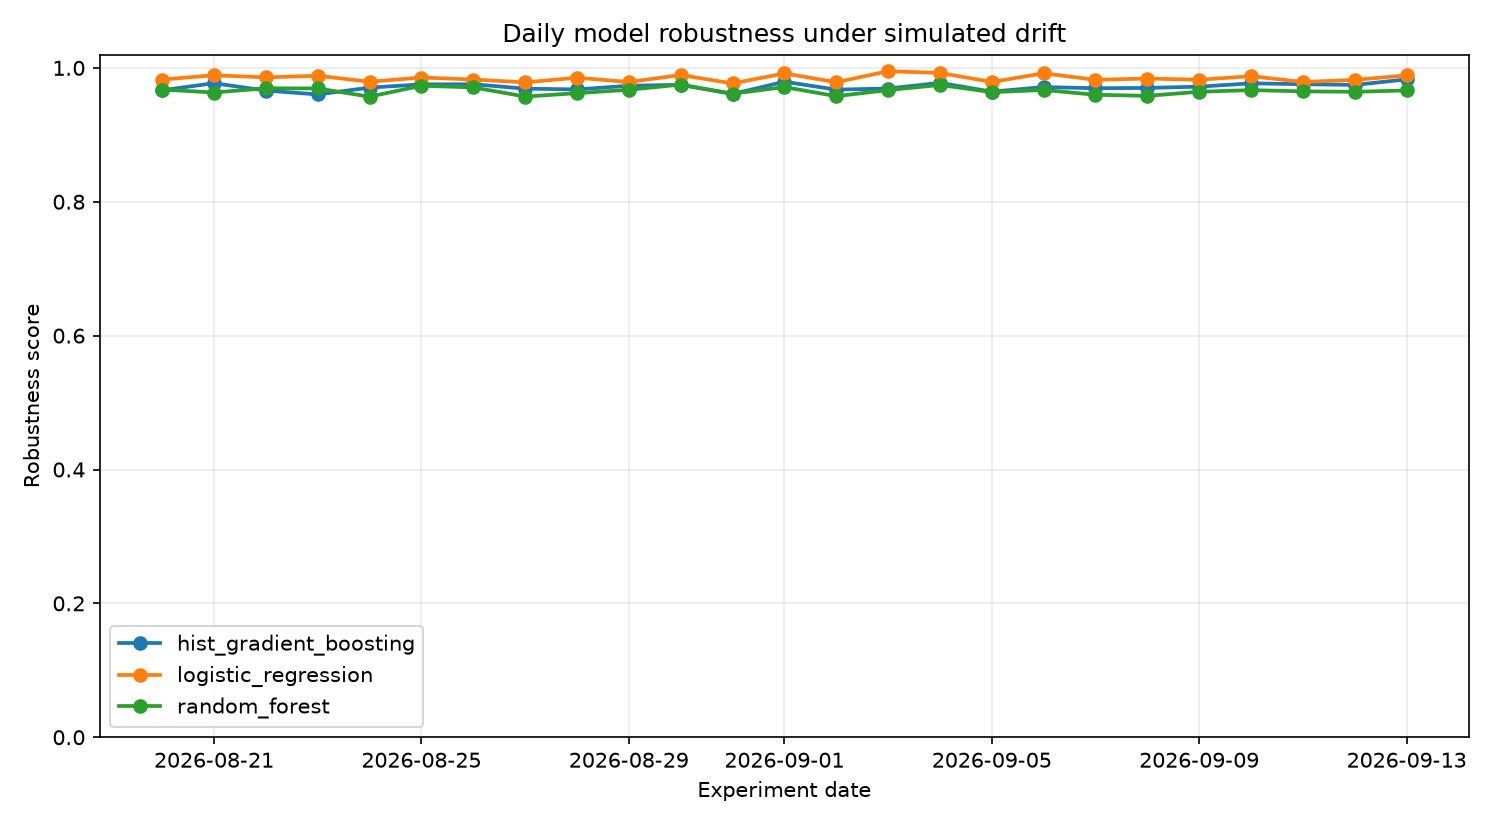
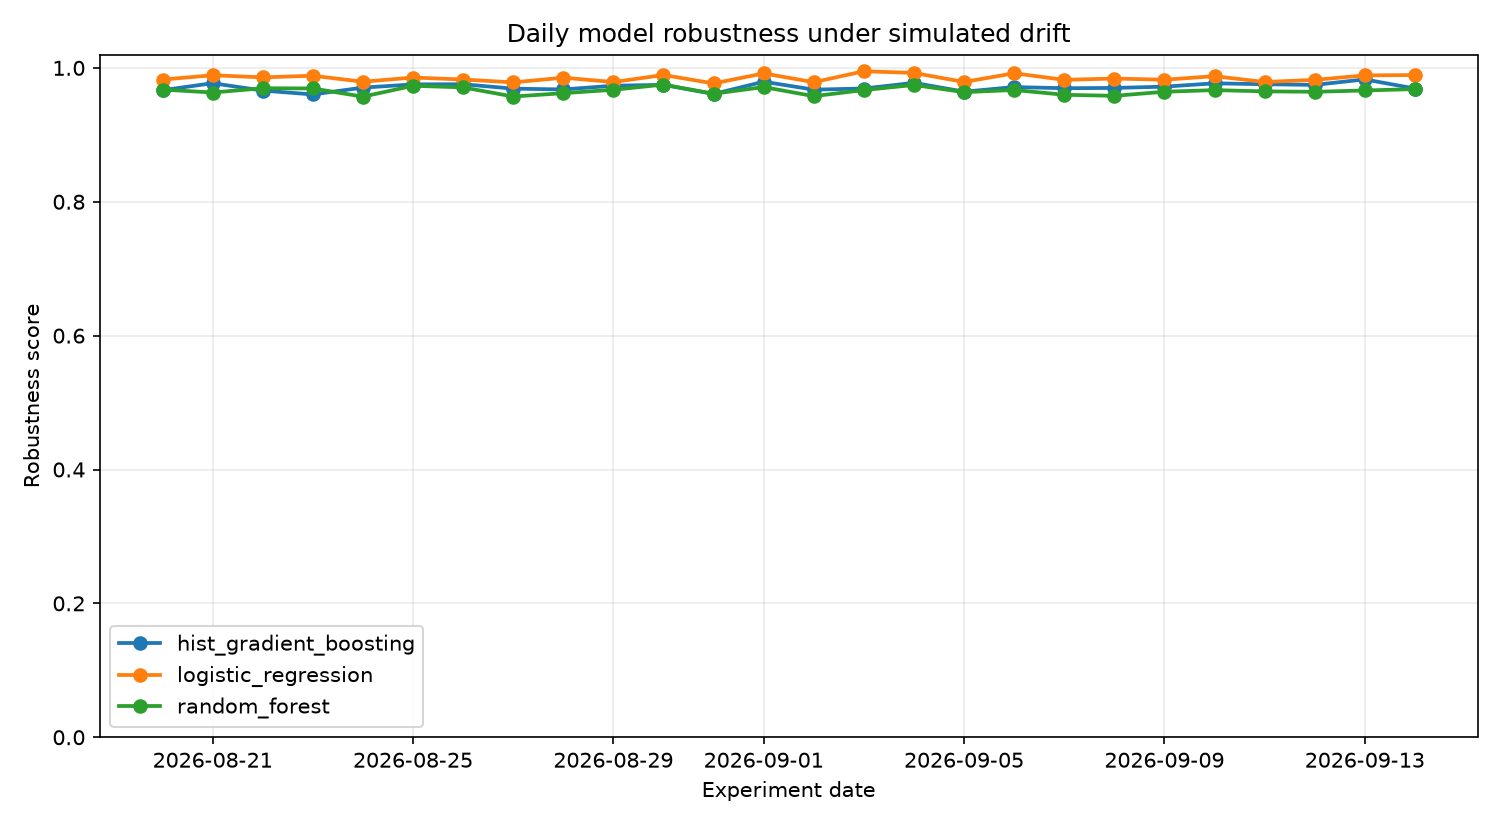
chore(observatory): daily drift benchmark 2026-09-14

diff --git a/reports/latest.md b/reports/latest.md
@@ -1,37 +1,37 @@
 # Latest DriftWatch Report
 
-**Experiment date:** 2026-09-13
+**Experiment date:** 2026-09-14
 
 ## Drift scenario
 
-- Drift strength: `0.285`
-- Scale factor: `0.971`
-- Noise ratio: `0.059`
-- Mask ratio: `0.015`
-- Affected features: mean radius, mean smoothness, mean compactness, radius error, area error, concavity error
+- Drift strength: `0.312`
+- Scale factor: `0.969`
+- Noise ratio: `0.062`
+- Mask ratio: `0.016`
+- Affected features: mean perimeter, mean concave points, smoothness error, concave points error, worst area, worst compactness
 
 ## Model ranking
 
 | Rank | Model | Robustness | ROC-AUC | F1 | Balanced Acc. | Log Loss | Brier |
 |---:|---|---:|---:|---:|---:|---:|---:|
-| 1 | `logistic_regression` | 0.9888 | 0.9975 | 0.9860 | 0.9797 | 0.0726 | 0.0198 |
-| 2 | `hist_gradient_boosting` | 0.9828 | 0.9933 | 0.9817 | 0.9688 | 0.1091 | 0.0275 |
-| 3 | `random_forest` | 0.9663 | 0.9921 | 0.9537 | 0.9344 | 0.1257 | 0.0358 |
+| 1 | `logistic_regression` | 0.9893 | 0.9980 | 0.9860 | 0.9797 | 0.0641 | 0.0163 |
+| 2 | `hist_gradient_boosting` | 0.9692 | 0.9912 | 0.9640 | 0.9375 | 0.1557 | 0.0401 |
+| 3 | `random_forest` | 0.9683 | 0.9930 | 0.9589 | 0.9360 | 0.1319 | 0.0374 |
 
 ## Highest feature drift (PSI)
 
 | Feature | PSI |
 |---|---:|
-| area error | 0.4734 |
-| radius error | 0.2379 |
-| texture error | 0.1633 |
-| mean texture | 0.1566 |
-| concavity error | 0.1286 |
-| worst concavity | 0.1261 |
-| smoothness error | 0.1229 |
-| fractal dimension error | 0.1123 |
+| worst area | 0.2244 |
+| mean concave points | 0.2057 |
+| mean concavity | 0.1987 |
+| texture error | 0.1727 |
+| worst concavity | 0.1185 |
+| worst concave points | 0.1179 |
+| mean perimeter | 0.1172 |
+| worst compactness | 0.1088 |
 
-**Mean PSI:** `0.1028`  
-**Max PSI:** `0.4734`
+**Mean PSI:** `0.0947`  
+**Max PSI:** `0.2244`
 
 _Generated automatically by the DriftWatch daily observatory pipeline._
